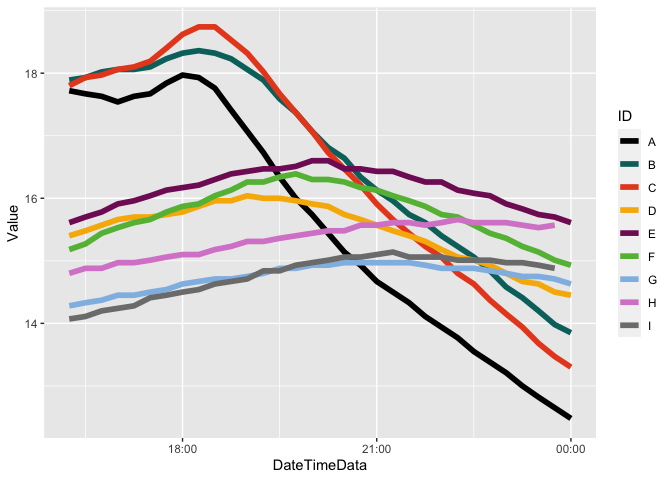
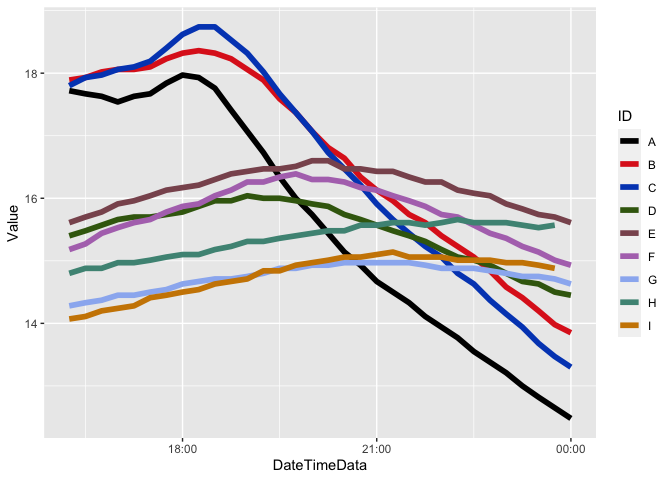
example for scale gradient

diff --git a/README.md b/README.md
@@ -49,7 +49,7 @@ library(poispalette)
 
 ggplot(poispalette::points, aes(x = RandomX, y = RandomY)) +
   geom_point(aes(colour = ID), size = 2) +
-  poispalette::scale_colour_pois(discrete = TRUE)
+  poispalette::scale_colour_disc_pois()
 ```
 
 <img src="man/figures/README-example-1.png" width="100%" />
@@ -58,7 +58,7 @@ ggplot(poispalette::points, aes(x = RandomX, y = RandomY)) +
 
 ggplot(poispalette::points, aes(x = X)) +
   geom_histogram(aes(fill = ID), binwidth = 30) +
-  poispalette::scale_fill_pois(discrete = TRUE)
+  poispalette::scale_fill_disc_pois()
 ```
 
 <img src="man/figures/README-example-2.png" width="100%" />
@@ -67,10 +67,19 @@ ggplot(poispalette::points, aes(x = X)) +
 
 ggplot(poispalette::lines, aes(x = DateTimeData, y = Value)) +
   geom_line(aes(colour = ID), size = 2) +
-  poispalette::scale_colour_pois(discrete = TRUE)
+  poispalette::scale_colour_disc_pois(palette = "legacy")
 ```
 
 <img src="man/figures/README-example-3.png" width="100%" />
+
+``` r
+
+ggplot(poispalette::points, aes(x = X, y = Y)) +
+  geom_point(aes(colour = RandomX), size = 2) +
+  poispalette::scale_colour_grad_pois(palette = "cool")
+```
+
+<img src="man/figures/README-example-4.png" width="100%" />
 
 ## Contribution
 
